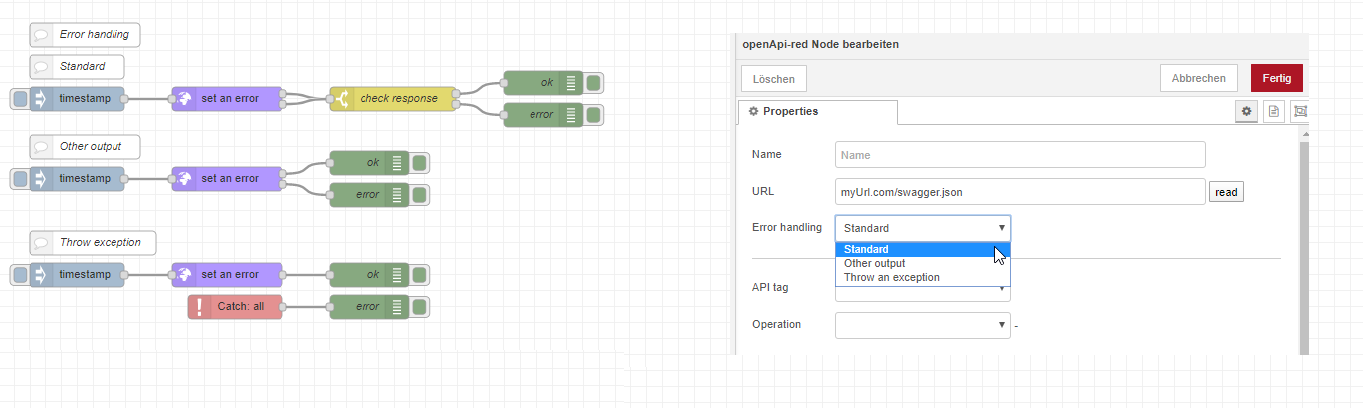
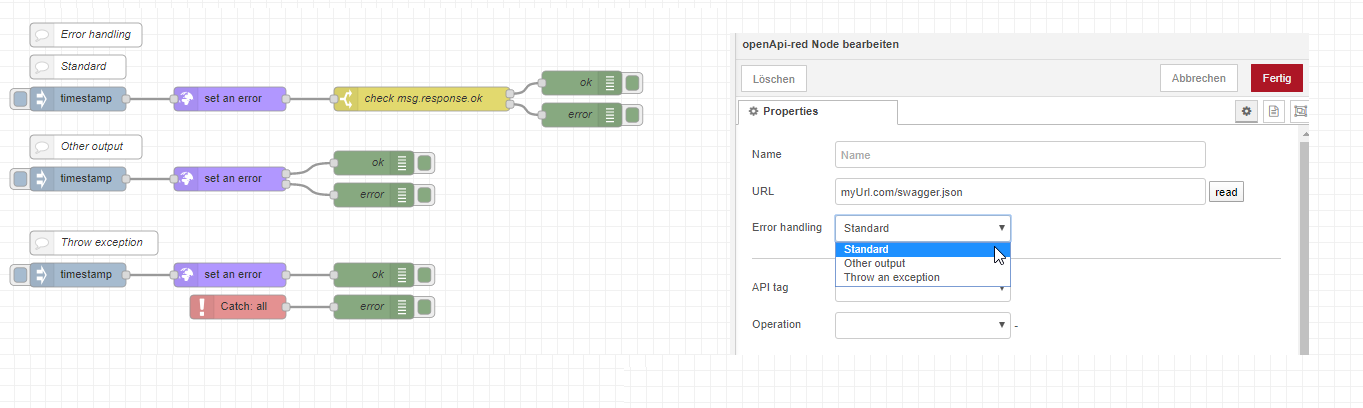
error handling changes

diff --git a/openApi-red.js b/openApi-red.js
@@ -1,21 +1,34 @@
 const Swagger = require('swagger-client')
 
-module.exports = function(RED) {
-  function openApiRed(config) {
-    RED.nodes.createNode(this,config)
-    let node = this;
+function sendError (node, config, msg, e) {
+  // node.error can't save the data we
+  if (e.message && isNaN(e.message.substring(0, 1)) && e.status) e.message = e.status + ' ' + e.message
+  msg.response = e.response
+  if (config.errorHandling === 'other output') {
+    node.send([null, msg])
+  } else if (config.errorHandling === 'throw exception') {
+    node.error(e.message, msg)
+  } else {
+    node.send(msg)
+  }
+}
 
-    node.on('input', function(msg) {
+module.exports = function (RED) {
+  function openApiRed (config) {
+    RED.nodes.createNode(this, config)
+    const node = this
+
+    node.on('input', function (msg) {
       let openApiUrl = config.openApiUrl
       if (msg.openApi && msg.openApi.url) openApiUrl = msg.openApi.url
       let parameters = {}
       let options = {}
-      
+
       if (msg.openApi && msg.openApi.parameters) {
         parameters = msg.openApi.parameters
       } else {
-        for (let p in config.parameters) {
-          let param = config.parameters[p]
+        for (const p in config.parameters) {
+          const param = config.parameters[p]
           let evaluatedInput = RED.util.evaluateNodeProperty(param.value, param.inputType, this, msg)
           // query input can't be object. Therefore stringify!
           if (typeof evaluatedInput === 'object' && param.in === 'query') {
@@ -25,9 +38,11 @@ module.exports = function(RED) {
           // can't use 'if (evaluatedInput)' due to values false and 0
           if (param.required && (evaluatedInput === '' || evaluatedInput === null || evaluatedInput === undefined)) return node.error(`Required input for ${param.name} is missing.`)
           if (param.isActive && param.name !== 'Request Body') parameters[param.name] = evaluatedInput
-          if (param.isActive && param.name === 'Request Body') options = {
-            'requestBody' : {
-              evaluatedInput
+          if (param.isActive && param.name === 'Request Body') {
+            options = {
+              requestBody: {
+                evaluatedInput
+              }
             }
           }
         }
@@ -41,77 +56,71 @@ module.exports = function(RED) {
         operationId = config.operation
       }
 
-      Swagger(openApiUrl).then( (client) => {
-        client.execute({ 
-          operationId: operationId, 
-          pathName: config.operationData.pathName,
-          method: config.operationData.method,
+      Swagger(openApiUrl).then((client) => {
+        client.execute({
+          operationId,
+          pathName,
+          method,
           parameters,
-         // if available put token for auth
-         requestInterceptor: (req) => {
-          if (msg.openApiToken) req.headers['Authorization'] = 'Bearer ' + msg.openApiToken
-        }
-        },{
+          // if available put token for auth
+          requestInterceptor: (req) => {
+            if (msg.openApiToken) req.headers.Authorization = 'Bearer ' + msg.openApiToken
+          }
+        }, {
           // options object (request body for openAPI 3)
           options
         })
-        .then( (res) => {
-          msg.payload = res
-          node.send(msg)
-        }).catch( (e) => {
-          msg.payload = e
-          if (config.errorHandling === 'other output') node.send([null, msg])
-          else if (config.errorHandling === 'throw exception') node.error(e.message, msg)
-          else node.send(msg)
-        })
-      }).catch( e => {
-        msg.payload = e
-        if (config.errorHandling === 'other output') node.send([null, msg])
-        else if (config.errorHandling === 'throw exception') node.error(e.message, msg)
-        else node.send(msg)
+          .then((res) => {
+            msg.payload = res
+            node.send(msg)
+          }).catch((e) => {
+            sendError(node, config, msg, e)
+          })
+      }).catch(e => {
+        sendError(node, config, msg, e)
       })
     })
   }
-  RED.nodes.registerType("openApi-red", openApiRed)
+  RED.nodes.registerType('openApi-red', openApiRed)
 
   // create API List
   RED.httpAdmin.get('/getNewOpenApiInfo', (request, response) => {
-    let openApiUrl = request.query.openApiUrl
+    const openApiUrl = request.query.openApiUrl
     if (!openApiUrl) {
-        response.send("Missing or invalid openApiUrl parameter 'openApiUrl': " + openApiUrl)
-        return
+      response.send("Missing or invalid openApiUrl parameter 'openApiUrl': " + openApiUrl)
+      return
     }
-    let decodedUrl = decodeURIComponent(openApiUrl)
-    let newApiList = {}
-    Swagger(decodedUrl).then( (client) => {
-      let paths = client.spec.paths;
-      Object.keys(paths).forEach( (pathKey) => {
-        let path = paths[pathKey];
-        Object.keys(path).forEach( (operationKey) => {
-            let operation = path[operationKey]
-            let opId = operation.operationId
-            // fallback if no operation id exists
-            if (!opId) {
-              opId = operationKey + pathKey
-              operation.operationId = opId
-              operation.withoutOriginalOpId = true
-              operation.pathName = pathKey
-              operation.method = operationKey
-            }
-            
-            // default if no array tag exists
-            if (operation.tags.constructor !== Array || operation.tags.length === 0) operation.tags = ['default']
-            for ( tag of operation.tags) {
-              if (!newApiList[tag]) newApiList[tag] =  {}
-              operation.path = pathKey
-              newApiList[tag][opId] = operation
-            }
+    const decodedUrl = decodeURIComponent(openApiUrl)
+    const newApiList = {}
+    Swagger(decodedUrl).then((client) => {
+      const paths = client.spec.paths
+      Object.keys(paths).forEach((pathKey) => {
+        const path = paths[pathKey]
+        Object.keys(path).forEach((operationKey) => {
+          const operation = path[operationKey]
+          let opId = operation.operationId
+          // fallback if no operation id exists
+          if (!opId) {
+            opId = operationKey + pathKey
+            operation.operationId = opId
+            operation.withoutOriginalOpId = true
+            operation.pathName = pathKey
+            operation.method = operationKey
+          }
+
+          // default if no array tag exists
+          if (operation.tags.constructor !== Array || operation.tags.length === 0) operation.tags = ['default']
+          for (const tag of operation.tags) {
+            if (!newApiList[tag]) newApiList[tag] = {}
+            operation.path = pathKey
+            newApiList[tag][opId] = operation
+          }
         })
       })
       response.send(newApiList)
-    }).catch( (e) => {
-      if (e.message ) response.send(e.message.toString())
-      else response.send("Error: " + e)
+    }).catch((e) => {
+      if (e.message) response.send(e.message.toString())
+      else response.send('Error: ' + e)
     })
   })
 }

diff --git a/openApi-red.html b/openApi-red.html
@@ -458,7 +458,7 @@
     For using dynamic OpenApi URL, operation or parameter put those into msg.openApiUrl (string), msg.operation (operationId as string) and msg.parameters (object with key as parameter name). 
 
     <h3>Error handling</h3>
-    This handles how to react if the server returns a http status of 4xx or 5xx.
+    This handles how to react if the server returns a http status of 4xx or 5xx. You can find the last server response in msg.response.
     <dl class="message-properties">
       <dt>Standard  <span class="property-type">string</span> </dt>
       <dd> The flow will move on normally so you can choose how to handle this within your flow.</dd>

diff --git a/README.md b/README.md
@@ -36,8 +36,7 @@ If the API requires an authentification token you can log in using the standard 
 
 ## 5. Error handling
 
-You can choose how to handle a returning server error. 
-
+You can choose how to handle a returning server error. The last server response object will be placed in msg.response instead of msg.error. This ensures that all 3 ways react the same.
 
 * `Standard`: The flow moves on normally. You have to handle an server error in your flow.
 * `Separate output`: Your flow will take a different way.

diff --git a/CHANGELOG.md b/CHANGELOG.md
@@ -1,5 +1,10 @@
 > **Attention:** ⚠ means that a change breaks things. Manual adjustments will be necessary. So be careful before updating. Even data loss might occur.
 
+**Version 0.1.9**
+
+- Minor changes on error handling
+- Code changed to StandardJs code standard
+
 **Version 0.1.8**
 
 - Selectable error handling
